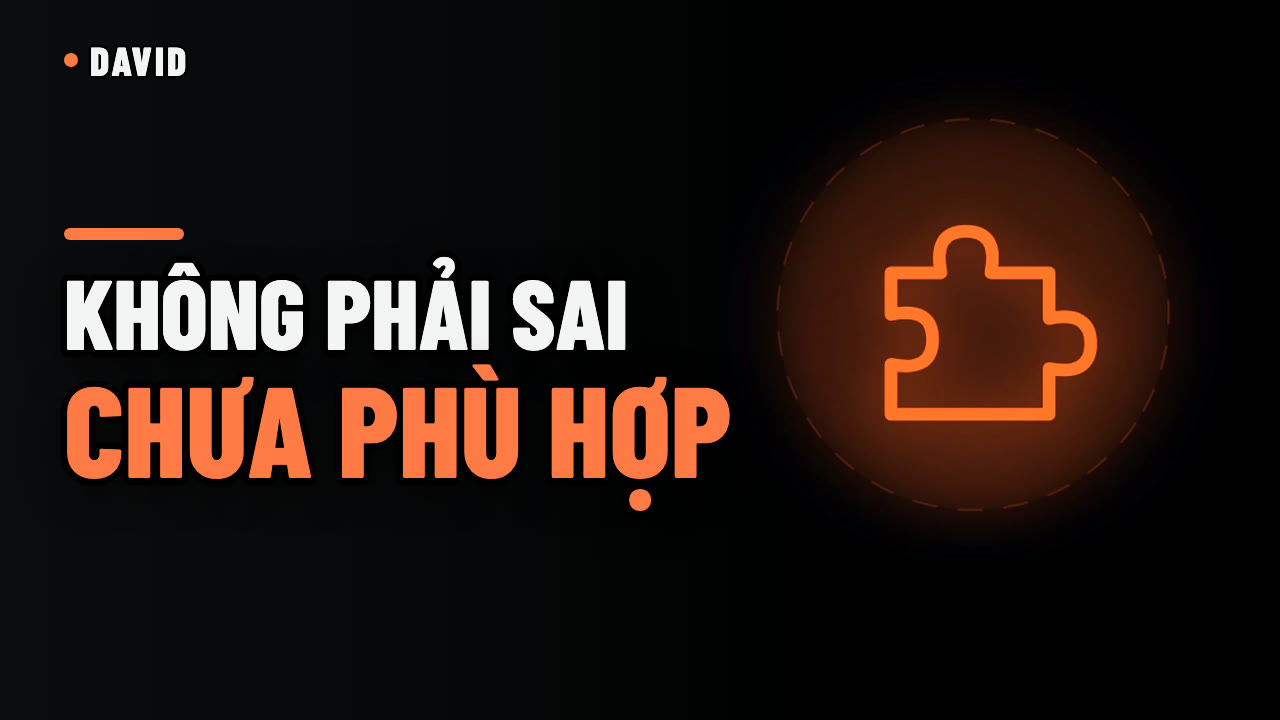
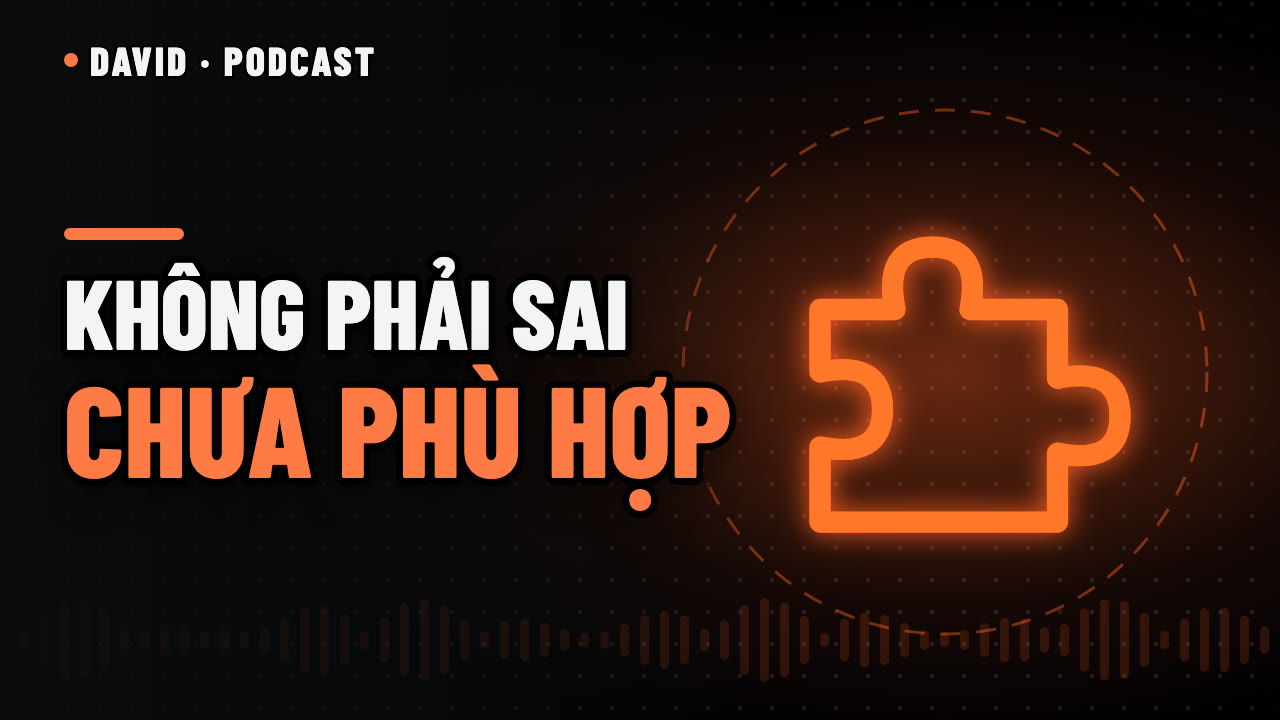
Dựng lại video dài Đi trainer bằng skill mới, ảnh bìa mới, ghi nhớ luật gợi ý để David chọn

diff --git a/dang-lam/video-di-trainer/video-dai/motion/src/scenes.js b/dang-lam/video-di-trainer/video-dai/motion/src/scenes.js
@@ -12,12 +12,12 @@ export const SCENES = [
   {id: 'mo', type: 'hook', start: 0, end: 3.2, props: {lines: ['KHÔNG PHẢI ANH ẤY SAI', 'MÀ LÀ CHƯA PHÙ HỢP']}},
   {id: 'cung-lam', type: 'illus', start: 167.5, end: 173.6, props: {mode: 'flow', items: [{icon: 'people', at: 167.9, label: 'CÙNG LÀM'}, {icon: 'gear', at: 169.6, label: 'CÙNG SỬA'}, {icon: 'target', at: 171.6, label: 'CÙNG NHẬN'}], label: 'KẾT QUẢ'}},
   {id: 'con-may-nguoi', type: 'diagram', start: 233.9, end: 240.4, props: {mode: 'tu-thanh', items: [{icon: 'people', at: 234.6, label: '20 MẤY NGƯỜI'}, {icon: 'person', at: 237.5, label: 'CÒN CÓ MẤY NGƯỜI'}]}},
-  {id: 'moi-ca-nhan', type: 'illus', start: 288.8, end: 298.2, props: {mode: 'list', label: 'ĐỀU CÓ VAI TRÒ RIÊNG', items: [{icon: 'person', at: 289.1, label: 'MỖI CÁ NHÂN'}, {icon: 'building', at: 290.9, label: 'MỖI TỔ CHỨC'}, {icon: 'people', at: 291.8, label: 'MỖI ĐỘI NHÓM'}, {icon: 'globe', at: 293.9, label: 'XÃ HỘI'}]}},
+  {id: 'moi-ca-nhan', type: 'illus', start: 288.8, end: 298.2, props: {mode: 'list', label: 'VAI TRÒ RIÊNG', items: [{icon: 'person', at: 289.1, label: 'MỖI CÁ NHÂN'}, {icon: 'building', at: 290.9, label: 'MỖI TỔ CHỨC'}, {icon: 'people', at: 291.8, label: 'MỖI ĐỘI NHÓM'}, {icon: 'globe', at: 293.9, label: 'XÃ HỘI'}]}},
   {id: 'manh-ghep', type: 'illus', start: 300.8, end: 306.2, props: {mode: 'single', items: [{icon: 'puzzle', at: 301.2}], label: 'MỘT MẢNH GHÉP'}},
   {id: 'khong-sai', type: 'kinetic', start: 317.4, end: 322.6, props: {lines: ['KHÔNG PHẢI ANH ẤY SAI', 'MÀ LÀ CHƯA PHÙ HỢP.']}},
   {id: 'tu-hoi', type: 'card', start: 337.0, end: 348.2, props: {variant: 'steps', eyebrow: 'CÁI VAI TRÒ CỦA MÌNH LÀ GÌ', steps: [{text: 'Trong xã hội', at: 340.6}, {text: 'Trong công ty và doanh nghiệp', at: 342.4}, {text: 'Không bị lấn sân', at: 346.0}]}},
   {id: 'ba-thang', type: 'diagram', start: 367.0, end: 373.4, props: {mode: 'moc', label: 'ĐỂ ANH GỌI LÀ BUỒN', items: [{at: 367.6, value: '1', label: 'THÁNG'}, {at: 368.6, value: '2', label: 'THÁNG'}, {at: 369.2, value: '3', label: 'THÁNG'}]}},
-  {id: 'o-ga', type: 'illus', start: 421.0, end: 426.4, props: {mode: 'single', items: [{icon: 'road', at: 421.6}], label: 'ĐI VÀO Ổ GÀ'}},
+  {id: 'o-ga', type: 'illus', start: 421.0, end: 426.4, props: {mode: 'single', items: [{icon: 'road', at: 421.6}], label: 'Ổ GÀ'}},
   {id: 'chot', type: 'cta', start: 533.7, end: 537.7, props: {text: 'Bạn đang kẹt ở vai trò nào? Bình luận **Vấn đề** nhé', kind: 'comment'}},
 ];
 

diff --git a/dang-lam/video-di-trainer/video-dai/motion/src/project.js b/dang-lam/video-di-trainer/video-dai/motion/src/project.js
@@ -1,2 +1,2 @@
 // Dự án PODCAST — tự điền bởi podcast-style-edit/scripts/new_podcast.sh. source = sân khấu nền + tiếng (podcast_base.py)
-export default {fpsNum: 30, fpsDen: 1, width: 1920, height: 1080, duration: 537.735000, source: 'video_goc.mp4', podcast: true, tuyen: 'tam_su', ytEnd: 20};
+export default {fpsNum: 30, fpsDen: 1, width: 1920, height: 1080, duration: 537.735000, source: 'video_goc.mp4', podcast: true, tuyen: 'tam_su', ytEnd: 20, sting: false};

diff --git a/skills/dung-video/video-style-edit/scripts/render_preview.py b/skills/dung-video/video-style-edit/scripts/render_preview.py
@@ -29,7 +29,9 @@ sfx = [(s["start"] + TICK, "ting.wav", 0.55) for s in scenes if s.get("type") ==
 import json as _bj
 BRAND = _bj.load(open(os.path.join(os.path.dirname(os.path.realpath(__file__)), "../../thu-vien-hinh/brand.json"), encoding="utf-8"))
 _hook = next((s for s in scenes if s.get("type") == "hook"), None)
-sfx.append(((_hook["start"] if _hook else 0.0), BRAND["sting"], BRAND["stingVol"]))
+# project.sting = false: bỏ tiếng ký hiệu đầu video khi lời vào ngay giây đầu (David, 2026-11-06)
+if "sting: false" not in open(os.path.join(P, "motion/src/project.js"), encoding="utf-8").read():
+    sfx.append(((_hook["start"] if _hook else 0.0), BRAND["sting"], BRAND["stingVol"]))
 # Highlight (skill cat-highlight-video, motion/src/highlight.js): tiếng "vút tua" ở mỗi mối nhảy đoạn — đặt giữa khoảng chuyển
 # (khoảng chuyển là lặng do cut_highlight.py chèn, nên không đè lời nói)
 hlf = os.path.join(P, "motion/src/highlight.js")

diff --git a/TRANG-THAI-HIEN-TAI.md b/TRANG-THAI-HIEN-TAI.md
@@ -10,7 +10,7 @@ Chặng 1 của nghề: 1–3 ca thật online, miễn phí đổi lời chứng
 
 | Việc | Tình trạng | Bước tiếp |
 |---|---|---|
-| Podcast "Đi trainer cho người làm trainer" (DJI_16, 9:19, giữ nguyên không cắt) | Dựng xong, chờ David duyệt ở cổng 2. Video ở `~/Movies/podcast-dji-20261105` và Drive `Video-xong`. Bài đăng: [dang-lam/video-di-trainer/video-dai/phat-hanh/phat-hanh.md](dang-lam/video-di-trainer/video-dai/phat-hanh/phat-hanh.md). Giây đầu còn tiếng ký hiệu đè "David xin chào" | David quyết có bỏ tiếng ký hiệu không, rồi duyệt. Dự kiến YouTube ngang T3 10/11 20:00 |
+| Podcast "Đi trainer cho người làm trainer" (DJI_16, 9:19, giữ nguyên không cắt) | Dựng xong, chờ David duyệt ở cổng 2. Video ở `~/Movies/podcast-dji-20261105` và Drive `Video-xong`. Bài đăng: [dang-lam/video-di-trainer/video-dai/phat-hanh/phat-hanh.md](dang-lam/video-di-trainer/video-dai/phat-hanh/phat-hanh.md). Đã dựng lại bằng skill mới 06/11, bỏ tiếng ký hiệu đầu video, ảnh bìa mới theo mẫu podcast | David xem bản mới, rồi duyệt. Dự kiến YouTube ngang T3 10/11 20:00 |
 | 3 clip dọc từ podcast trên | **David duyệt hình và tiếng 06/11, lấy làm mẫu cho các video dọc sau.** Cùng ngày dựng lại bằng skill chuyển động mới và bỏ icon YouTube ở màn hình cuối, David đã nghe và chốt 06/11: **đây là bản chuẩn**. Bài đăng, tít và câu màn hình cuối chưa được duyệt riêng. Chưa hẹn giờ, chưa đăng. Bài đăng: [dang-lam/video-di-trainer/ke-hoach-clip/dang-bai.md](dang-lam/video-di-trainer/ke-hoach-clip/dang-bai.md). Video ở Drive `Video-xong/Di-trainer-clip-1\|2\|3.mp4` | David duyệt bài đăng, rồi hẹn giờ qua khối 19 (lần đầu đăng thật, đi chậm). Lịch T6 13/11, T3 17/11, T6 20/11 20:00. Điền `[link YouTube]` sau khi video dài lên |
 | Rà soát video cũ TikTok và fanpage | Có danh sách đề xuất ẩn trong [dang-lam/ra-soat-video-cu.md](dang-lam/ra-soat-video-cu.md), và danh sách bổ sung ngày 06/11 trong [dang-lam/nghien-cuu-trang-ca-nhan.md](dang-lam/nghien-cuu-trang-ca-nhan.md). Ẩn là để riêng tư, không xoá | Chờ David quyết |
 | Làm lại kho 100 video | Kho cũ còn phần kinh doanh đã bỏ | Làm lại theo ba tầng: bản thân → công việc → mối quan hệ |

diff --git a/dang-lam/video-di-trainer/ke-hoach-dang.md b/dang-lam/video-di-trainer/ke-hoach-dang.md
@@ -16,12 +16,11 @@ Ghi ngày 06/11/2026. **Chờ David duyệt. Chưa hẹn giờ, chưa đăng bà
 | T3 17/11 | Không | Reels clip 2 | Clip 2 | Bạn tự bấm chia sẻ |
 | T6 20/11 | Không | Reels clip 3 | Clip 3 | Bạn tự bấm chia sẻ |
 
-David đã chốt 06/11: YouTube chỉ đăng video dài, không đăng Shorts. Màn hình cuối clip không có icon YouTube.
+David đã chốt 06/11: YouTube chỉ đăng video dài, không đăng Shorts. Màn hình cuối clip không có icon YouTube. Video dài đã dựng lại bằng skill mới, bỏ tiếng ký hiệu đầu video; ảnh bìa "KHÔNG PHẢI SAI / CHƯA PHÙ HỢP" (hình mảnh ghép). Ba điểm này David đã chọn.
 
 ### Cần David chốt (đề xuất của mình ở đầu mỗi dòng)
-1. **Bỏ tiếng ký hiệu** đè lên "David xin chào" ở giây đầu video dài. Chỉ ghép lại tiếng, hình không đổi. Đây là lỗi bạn đã góp ý ở 3 clip.
-2. **TikTok không ghi link.** Link trong mô tả TikTok không bấm được, nên đổi thành câu "Bản đầy đủ mình để trên YouTube, kênh Trainer David Trần."
-3. **Giữ nguyên chữ** ở mục "Chữ từng bài" bên dưới, gồm tiêu đề YouTube số 1 và thumb-1.
+1. **TikTok không ghi link.** Link trong mô tả TikTok không bấm được, nên đổi thành câu "Bản đầy đủ mình để trên YouTube, kênh Trainer David Trần."
+2. **Giữ nguyên chữ** ở mục "Chữ từng bài" bên dưới, gồm tiêu đề YouTube số 1 và thumb-1.
 
 ### Bạn nên biết trước khi đăng
 - **TikTok chỉ cho hẹn tối đa 10 ngày.** Hôm nay hẹn được clip 1. Clip 2 và 3 mình đặt việc tự làm ngày 11/11, hôm đó **máy cần bật và ứng dụng Claude cần mở**. Nếu lỡ, mình báo để làm bù.
@@ -39,7 +38,6 @@ David đã chốt 06/11: YouTube chỉ đăng video dài, không đăng Shorts. 
 ## 4. Thực thi
 
 ### Hôm David duyệt
-- [ ] Ghép lại tiếng video dài, chép bản mới lên Drive (nếu chọn bỏ tiếng ký hiệu)
 - [ ] YouTube: hẹn video dài T3 10/11, thumb-1, chương, màn kết
 - [ ] Lấy link YouTube, điền vào `[link YouTube]`
 - [ ] Trang Facebook: hẹn bài viết T3 10/11

diff --git a/nao/bo-nho/goi-y-de-david-chon.md b/nao/bo-nho/goi-y-de-david-chon.md
@@ -1,0 +1,15 @@
+---
+name: goi-y-de-david-chon
+description: "Với video và ảnh bìa, Claude đưa gợi ý để David chọn, không tự chốt chữ, hình hay nội dung, kể cả khi David vừa bảo \"làm luôn\" (2026-11-06)"
+metadata:
+  node_type: memory
+  type: feedback
+  originSessionId: 241f9930-2980-493a-b016-898308dc0f47
+  modified: 2026-11-06T10:12:41.304Z
+---
+
+Claude được đưa gợi ý, David là người chọn. Không tự chốt chữ trên ảnh bìa, hình đại diện, tiếng trong video, chữ trên cảnh, hay câu hỏi David chưa trả lời.
+
+**Why:** Khi David bảo làm lại video dài và ảnh bìa, Claude tự chọn câu chữ bìa, tự bỏ tiếng ký hiệu đầu video và tự rút chữ 2 cảnh rồi mới báo. David nói đó là sai quy trình.
+
+**How to apply:** Câu "làm đi" chỉ cho phép làm việc được giao, không phải chốt các lựa chọn trong đó. Trước khi dựng, liệt kê điểm cần chọn, mỗi điểm 2–3 gợi ý, đề xuất đứng đầu, chờ David chọn. Một đề xuất David chưa trả lời vẫn là chưa duyệt. Việc kỹ thuật không đổi thứ người xem thấy hoặc nghe thì tự làm. Liên quan [[ask-when-ambiguous]], [[podcast-thumb-khong-mat]].

diff --git a/nao/bo-nho/MEMORY.md b/nao/bo-nho/MEMORY.md
@@ -24,3 +24,4 @@
 - [Không cài HyperFrames](video-motion-hoc-hyperframes.md) — giữ Remotion, chỉ học ý rồi tự viết lại vào bộ skill video (2026-11-06)
 - [Bản chuẩn video](ban-chuan-video-2026-11-06.md) — 5 video chuẩn: 3 clip Đi trainer + 2 video dài; dự án cũ đã bỏ (2026-11-06)
 - [Bìa podcast không mặt](podcast-thumb-khong-mat.md) — podcast chỉ có tiếng thì bìa không có mặt người, phải khớp nội dung; mặt người chỉ cho video quay hình (2026-11-06)
+- [Gợi ý để David chọn](goi-y-de-david-chon.md) — không tự chốt chữ, hình, nội dung; "làm đi" không phải chốt lựa chọn (2026-11-06)

diff --git a/dang-lam/video-di-trainer/video-dai/phat-hanh/phat-hanh.md b/dang-lam/video-di-trainer/video-dai/phat-hanh/phat-hanh.md
@@ -46,9 +46,8 @@ Chương:
 ### Bình luận ghim
 Bạn đang ở đâu? Bình luận **Vấn đề** (vì sao chưa làm được) hoặc **Kết quả** (làm được thì kết quả là gì).
 
-### Thumbnail đề xuất
-1. KHÔNG PHẢI SAI / CHƯA PHÙ HỢP
-2. BA THÁNG / CHỈ CÒN MỘT NGÀY
+### Thumbnail (David chọn 06/11)
+KHÔNG PHẢI SAI / CHƯA PHÙ HỢP, hình mảnh ghép, `thumb-1.jpg`.
 
 ### Màn kết
 Gắn trong YouTube Studio: 2 video + nút đăng ký (20 giây cuối).
